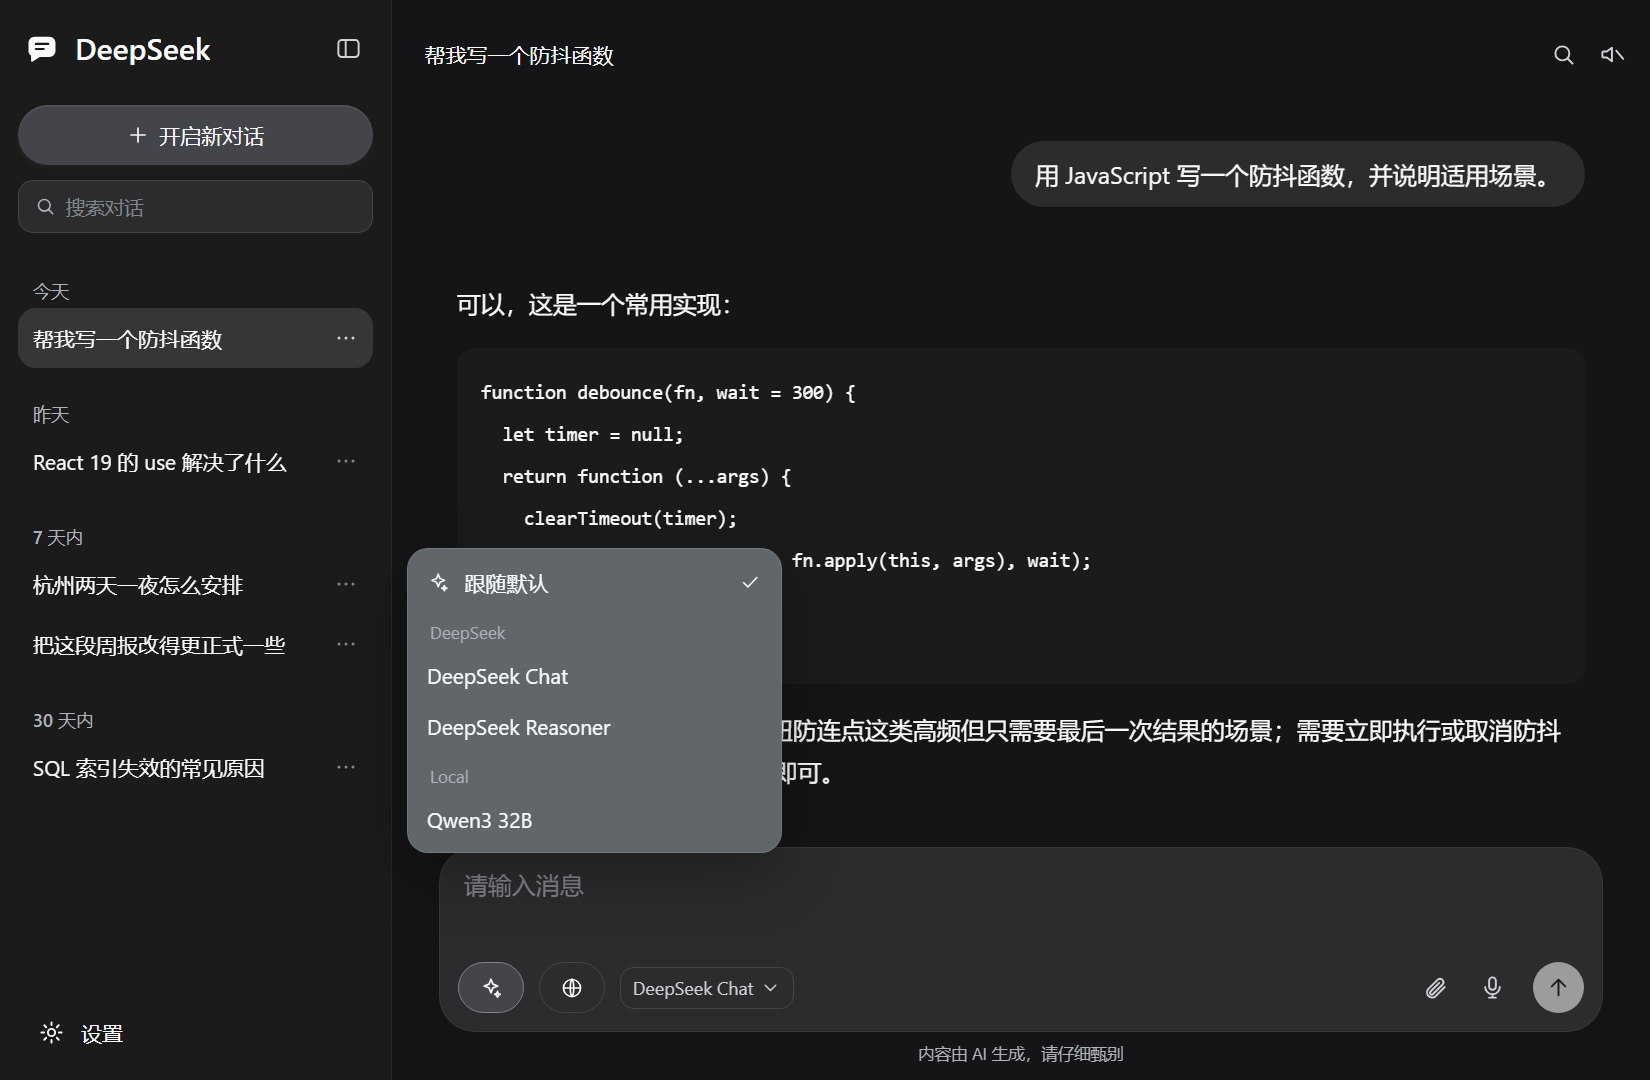
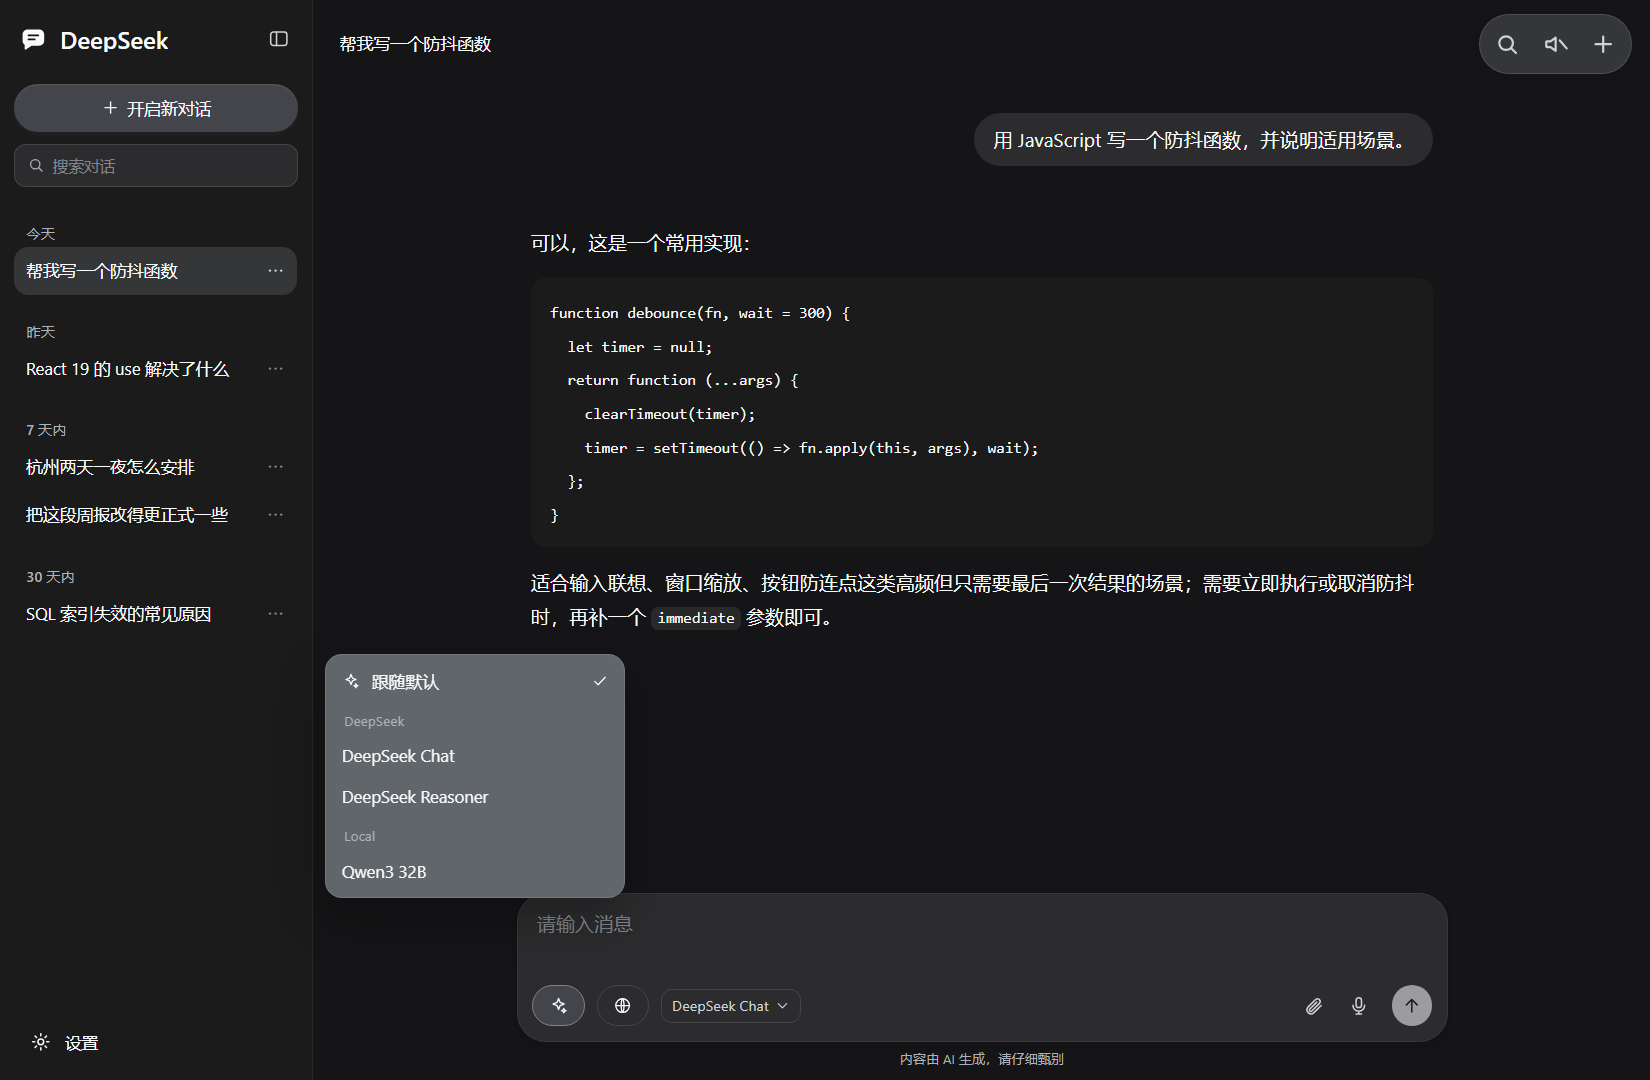
docs: refresh README screenshots to the current UI (v1.25.1)
- regenerated all eleven preview images (ten dark, one light, 1650x1080) from
  the current components: the action capsule, model picker, usage panel,
  jump-to-bottom button and the read-aloud voice row in settings are now
  visible, and the settings footer reads v1.25.1
- previews render at 1.2x for crisper text; animations stay disabled on the
  generated preview pages so menus and panels are captured in their final state
- captions updated for the settings and jump-to-bottom screenshots

diff --git a/client.js b/client.js
@@ -13,7 +13,7 @@ window.__ModuleLoader__.load({
     const NS = 'deepseek-chat-ui';
     const API = '/chat-replica';
     /** 设置面板底部展示的版本；必须与 package.json 的 version 一致（元数据测试校验）。 */
-    const PLUGIN_VERSION = '1.25.0';
+    const PLUGIN_VERSION = '1.25.1';
     const REPO_URL = 'https://github.com/AlphaAntivoid/dsh-chat-replica';
     const STORE_THREADS = 'deepseek-chat-ui.threads.v1';
     const STORE_ACTIVE = 'deepseek-chat-ui.active.v1';

diff --git a/CHANGELOG.md b/CHANGELOG.md
@@ -3,6 +3,18 @@
 每个版本同时保留中文与 English 两小节；`scripts/release-notes.mjs` 会取出版本对应小节作为 GitHub Release 的正文。
 Every version keeps a Chinese and an English section together; `scripts/release-notes.mjs` turns that section into the GitHub Release body.
 
+## 1.25.1
+
+### 中文
+
+- 重新生成 README 里的全部预览图（深色 10 张 + 浅色 1 张，1650×1080）：补上操作胶囊、模型选择、用量面板、「一键到底」，以及设置里的朗读音色行
+- 预览图统一用 1.2 倍缩放渲染，文字更清晰；截图仍由 `dsh-tools/make-screenshots.js` 从真实组件生成，动画在预览页里停用
+
+### English
+
+- Regenerated all README preview images (ten dark, one light, 1650×1080): they now show the action capsule, model picker, usage panel, jump-to-bottom button and the read-aloud voice row in settings
+- Previews render at 1.2× for crisper text; they are still produced from the real components by `dsh-tools/make-screenshots.js`, with animations disabled on the preview pages
+
 ## 1.25.0
 
 ### 中文

diff --git a/README.en.md b/README.en.md
@@ -50,7 +50,7 @@ Model picker: the composer shows the current model; open it to switch between pr
 
 ![Model picker](media/screenshots/model-dark.png)
 
-Settings: theme, text size and language, with the version, repository link and "check for updates" in the footer.
+Settings: theme, text size, language and read-aloud voice, with the version, repository link and "check for updates" in the footer.
 
 ![Settings](media/screenshots/settings-dark.png)
 

diff --git a/README.md b/README.md
@@ -48,7 +48,7 @@
 
 ![模型选择](media/screenshots/model-dark.png)
 
-设置页：主题、字号、语言，页脚显示版本、仓库链接与「检查更新」。
+设置页：主题、字号、语言、朗读音色，页脚显示版本、仓库链接与「检查更新」。
 
 ![设置](media/screenshots/settings-dark.png)
 
